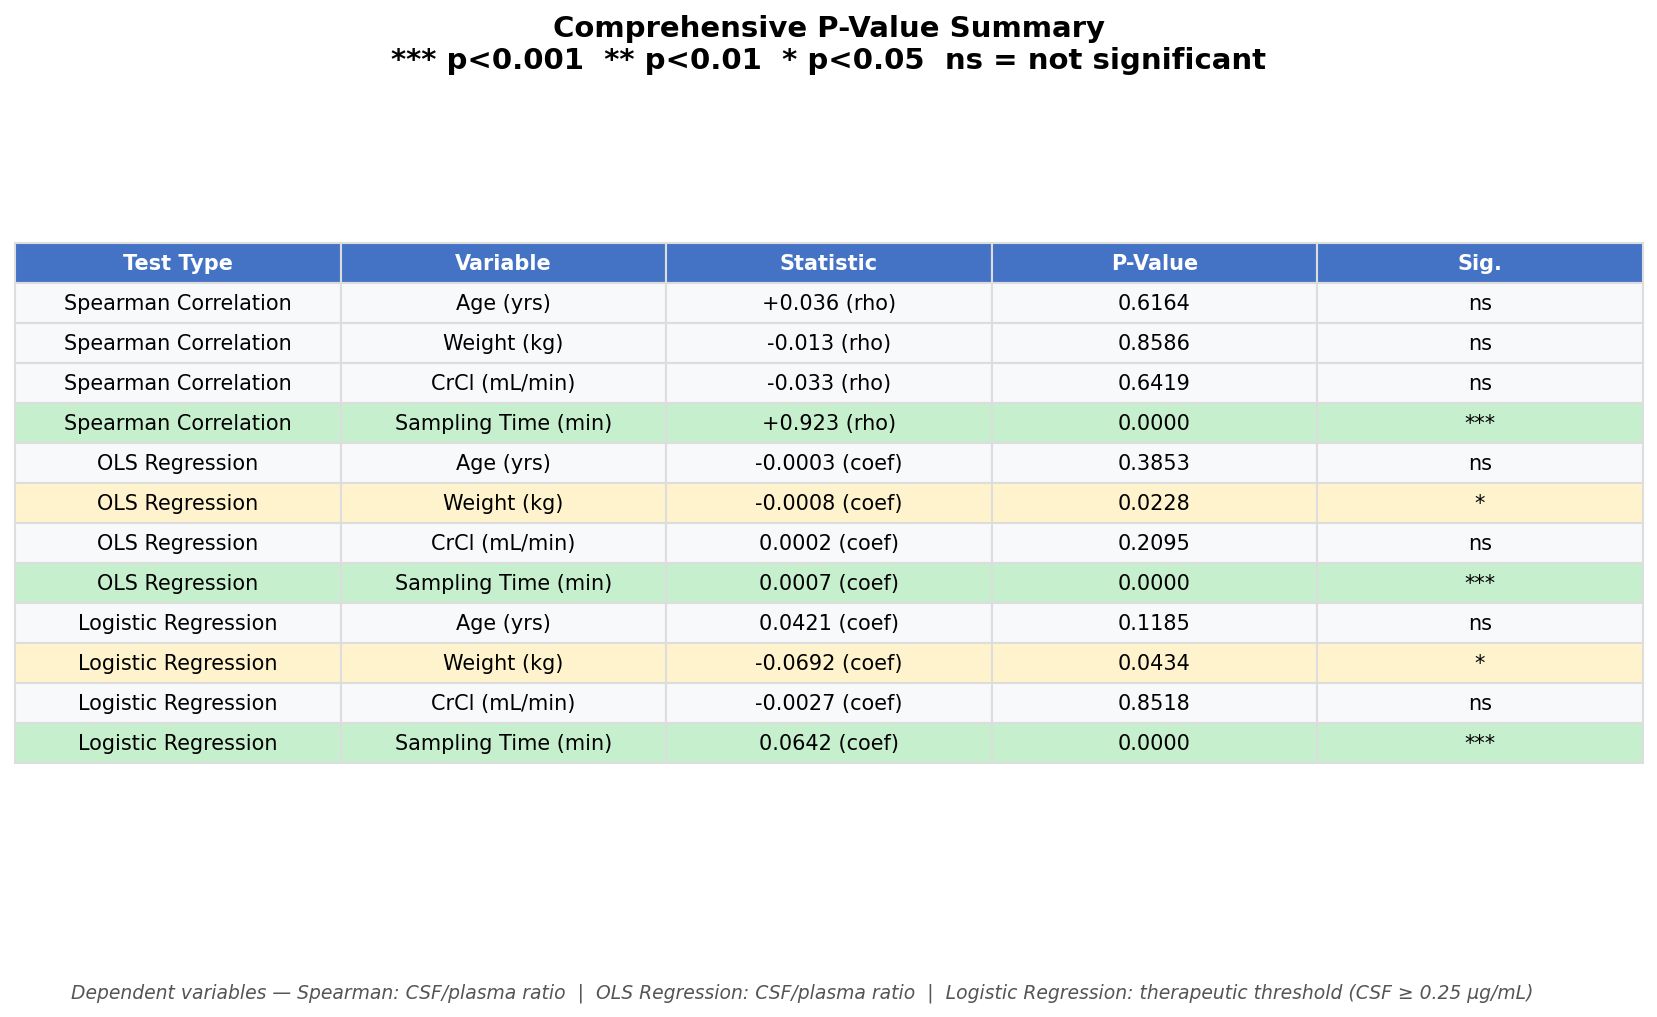
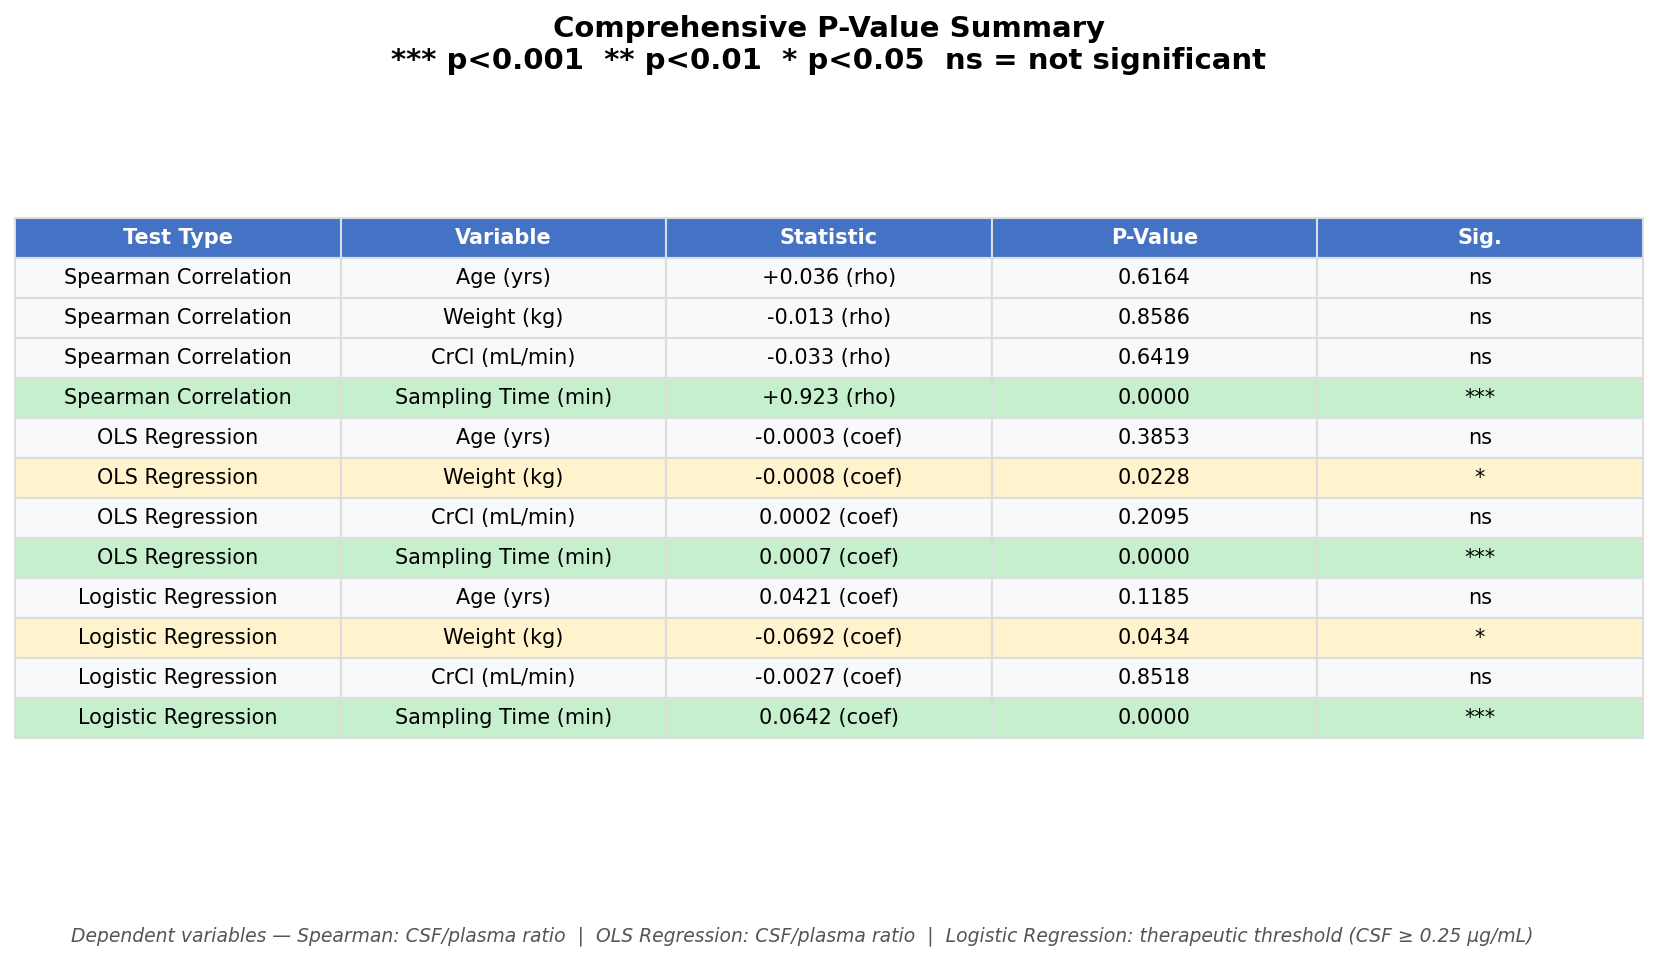
Tighten figure layouts and refine footnote spacing

diff --git a/analysis.py b/analysis.py
@@ -171,7 +171,7 @@ for var in logit_model.pvalues.index:
     pval_rows.append(["Logistic Regression", VAR_LABELS.get(var, var), f"{logit_model.params[var]:.4f} (coef)", f"{logit_model.pvalues[var]:.4f}",
                        "***" if logit_model.pvalues[var] < 0.001 else "**" if logit_model.pvalues[var] < 0.01 else "*" if logit_model.pvalues[var] < 0.05 else "ns"])
 
-fig3, ax3 = plt.subplots(figsize=(14, max(6, len(pval_rows) * 0.4 + 2)))
+fig3, ax3 = plt.subplots(figsize=(14, len(pval_rows) * 0.38 + 1.8))
 ax3.axis("off")
 ax3.set_title("Comprehensive P-Value Summary\n*** p<0.001  ** p<0.01  * p<0.05  ns = not significant",
               fontsize=14, fontweight="bold", pad=20)
@@ -259,12 +259,12 @@ for (row, col), cell in table5.get_celld().items():
 ax5b.set_title("Odds Ratios — 95% Confidence Intervals", fontsize=13, fontweight="bold")
 
 plt.tight_layout()
-fig5.subplots_adjust(bottom=0.25)
-fig5.text(0.5, 0.12,
+fig5.subplots_adjust(bottom=0.20)
+fig5.text(0.5, 0.10,
           "Dependent variable: therapeutic threshold achievement (CSF ≥ 0.25 µg/mL, binary). "
           "Coefficients (log-odds) exponentiated to odds ratios for clinical interpretability.",
           ha="center", fontsize=8.5, fontstyle="italic", color="#555555")
-fig5.text(0.5, 0.04,
+fig5.text(0.5, 0.05,
           "Interpretation: OR > 1 indicates increased odds per unit increase in predictor; OR < 1 indicates decreased odds "
           "(e.g., OR = 1.07 for Sampling Time = 7% increase in odds per additional minute post-infusion).",
           ha="center", fontsize=8, fontstyle="italic", color="#888888")
